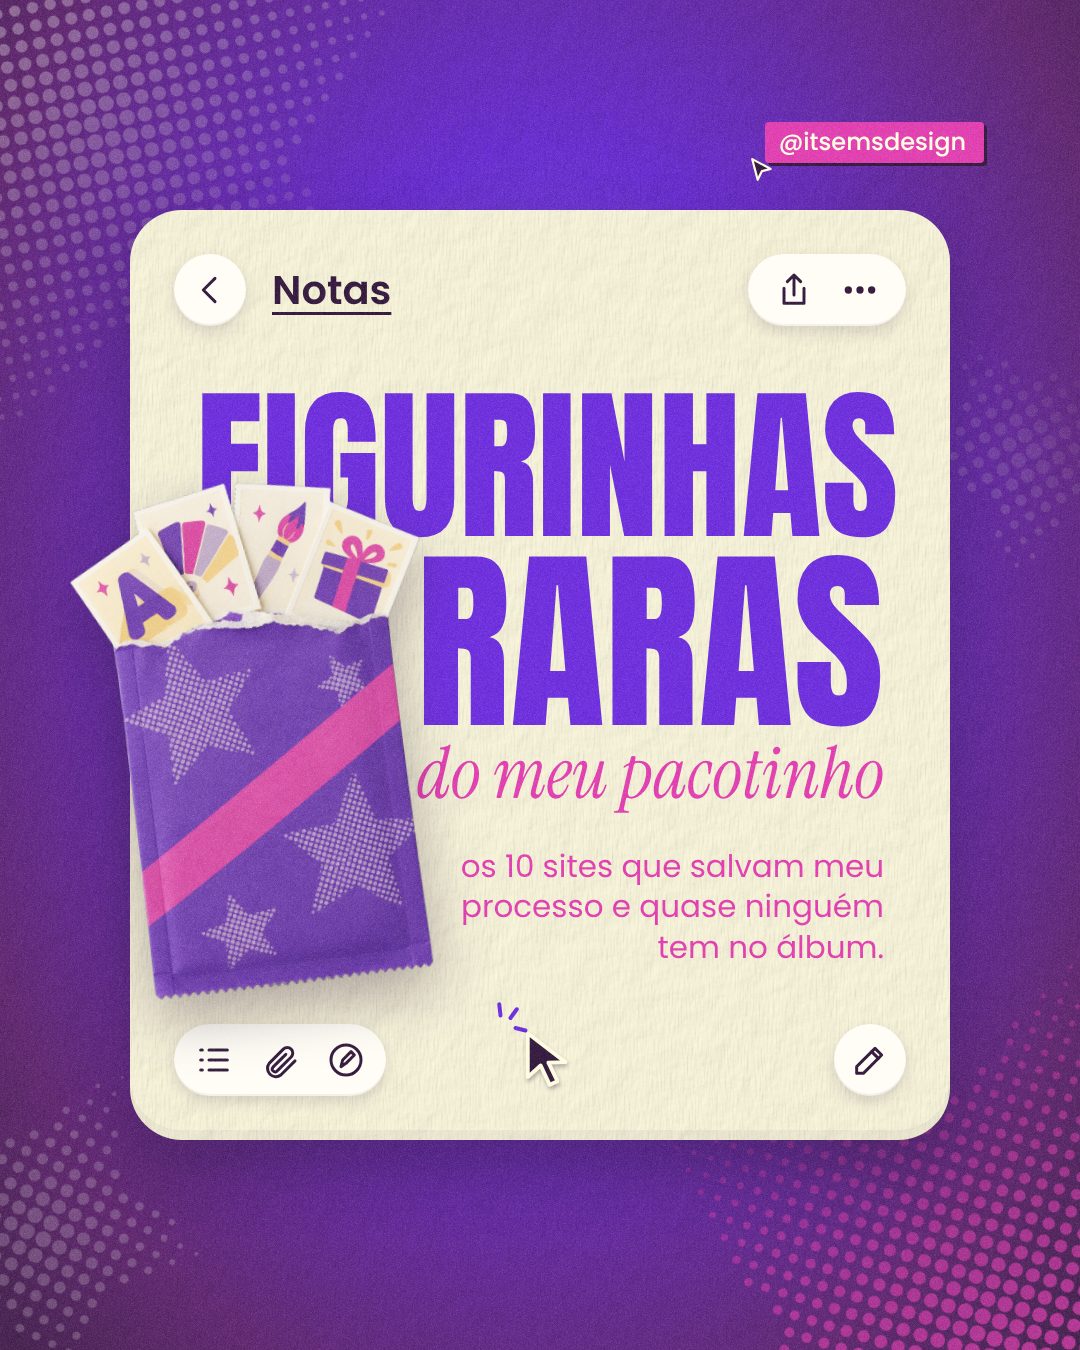
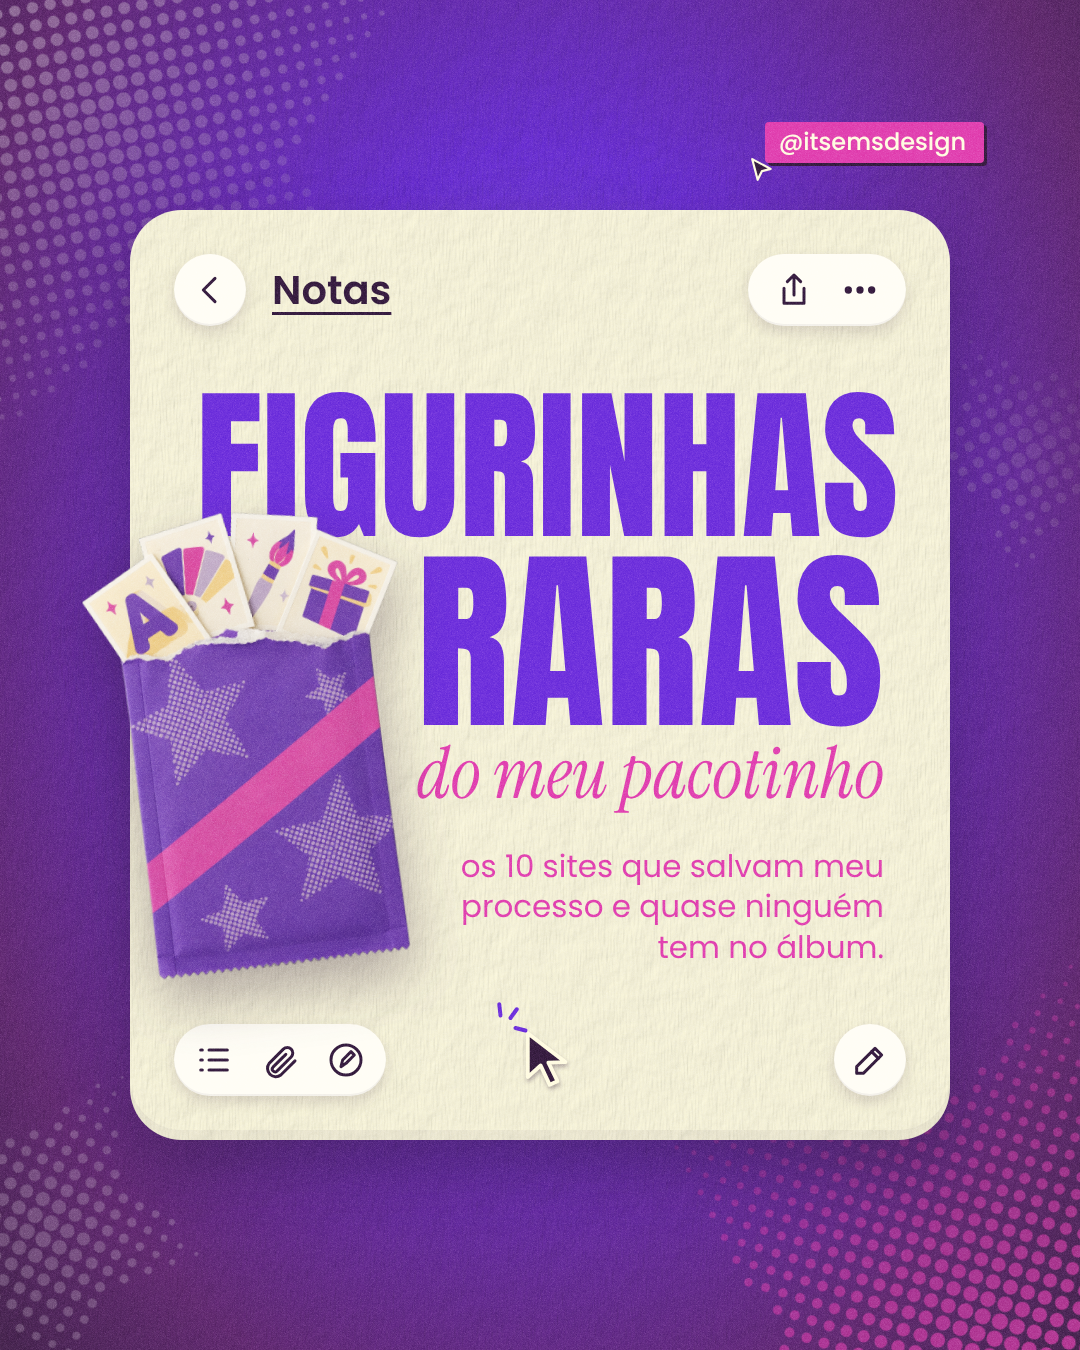
EMS figurinhas raras v4: envelope menor na capa
Claude-Session: https://claude.ai/code/session_01CmCiKB9wFc4qQovptupnZT

Changed region(s): [[0.0611, 0.3422, 0.3972, 0.7467]]

diff --git a/Emi/ems-album-figurinhas/projeto/carrossel.html b/Emi/ems-album-figurinhas/projeto/carrossel.html
@@ -105,7 +105,7 @@ const brilho4 = (x, y, tam, cor, r = 0) => `<svg class="abs" style="left:${x}px;
       <div class="abs" style="left:44px;bottom:44px">${botao(ic('<path d="M4 6h1M9 6h11M4 12h1M9 12h11M4 18h1M9 18h11"/>') + ic('<path d="M21 12.5l-8.5 8.5a5 5 0 01-7-7L14 5.5a3.3 3.3 0 014.7 4.7L10.2 18.7a1.7 1.7 0 01-2.4-2.4L15.5 8.6"/>') + ic('<circle cx="12" cy="12" r="9"/><path d="M9 16l1-4 5-5 2 2-5 5-3 2z"/>'))}</div>
       <div class="abs" style="right:44px;bottom:44px">${botao(ic('<path d="M4 20h4L19 9l-4-4L4 16v4z"/><path d="M13 7l4 4"/>'), 'padding:16px;')}</div>
     </div>
-    ${objeto({ x: CX - 40, y: CY + 270, w: 352, r: -7, src: 'pacotinho' })}
+    ${objeto({ x: CX - 30, y: CY + 300, w: 318, r: -7, src: 'pacotinho' })}
     <!-- nome fora do cartão, no alto à direita -->
     <div class="handle" style="right:96px;top:122px;--bg:var(--pink);font-size:24px">@itsemsdesign${CURSOR}</div>
     <!-- o clique é no cartão, embaixo e no meio: como se abrisse a nota -->
